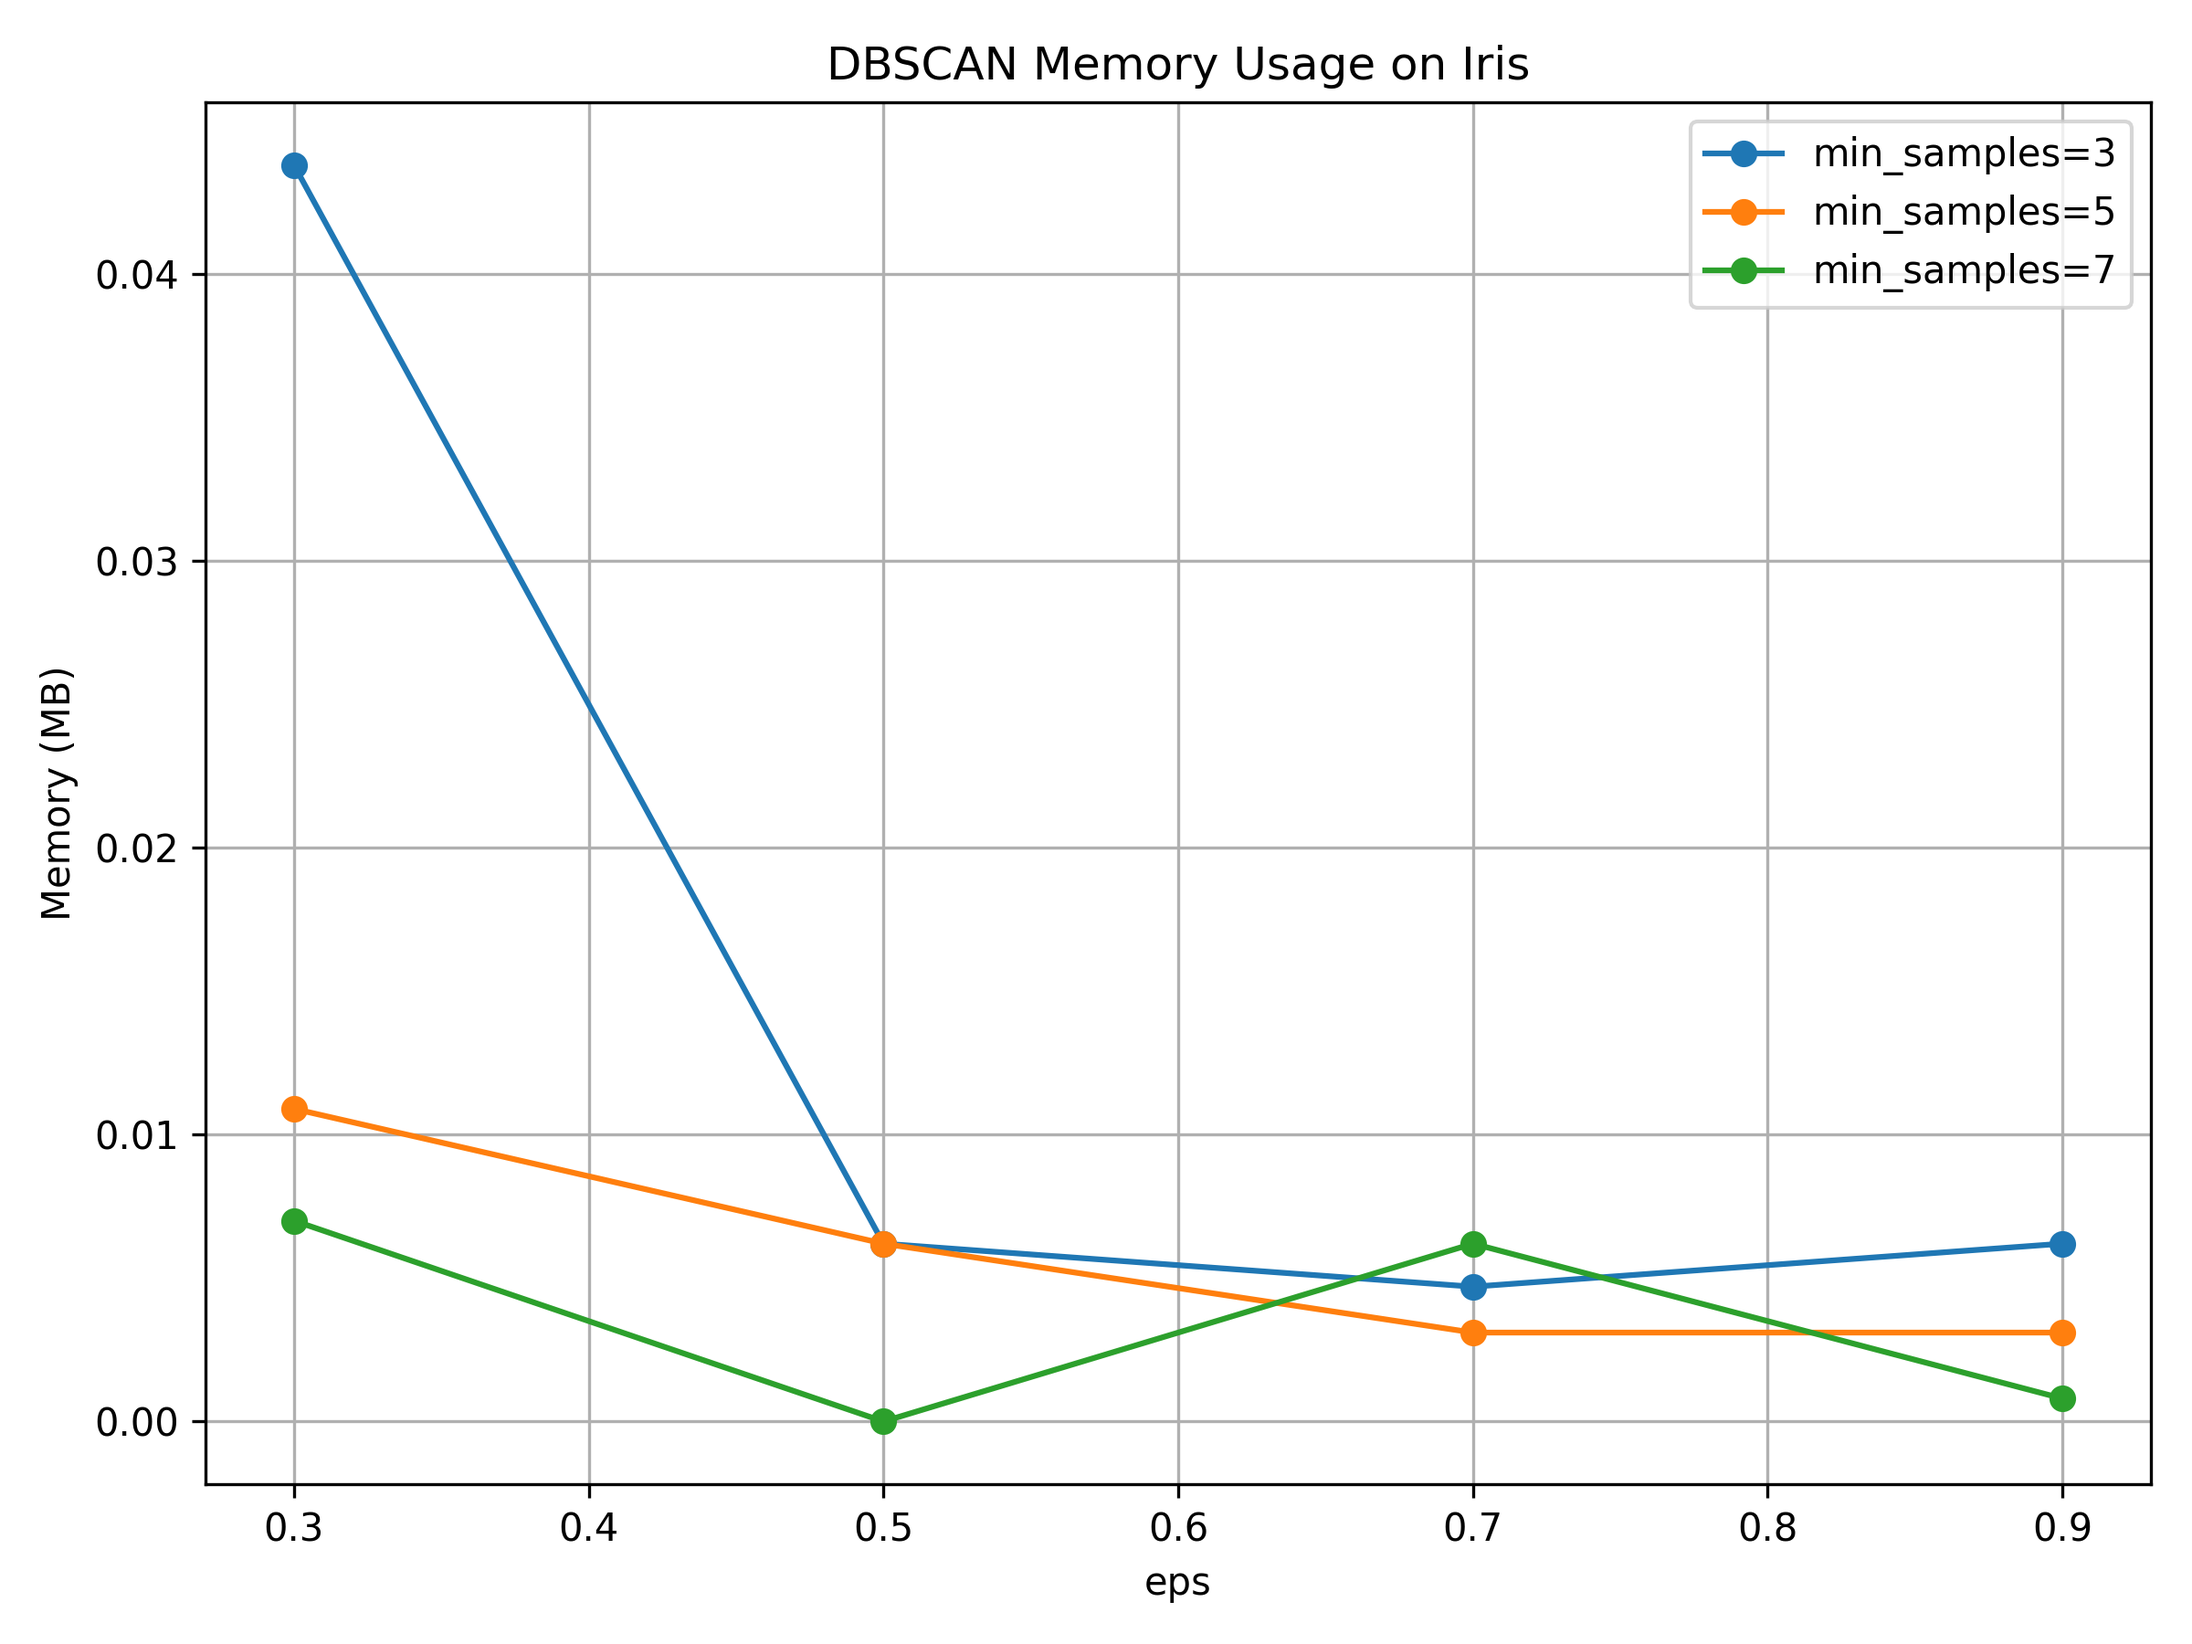
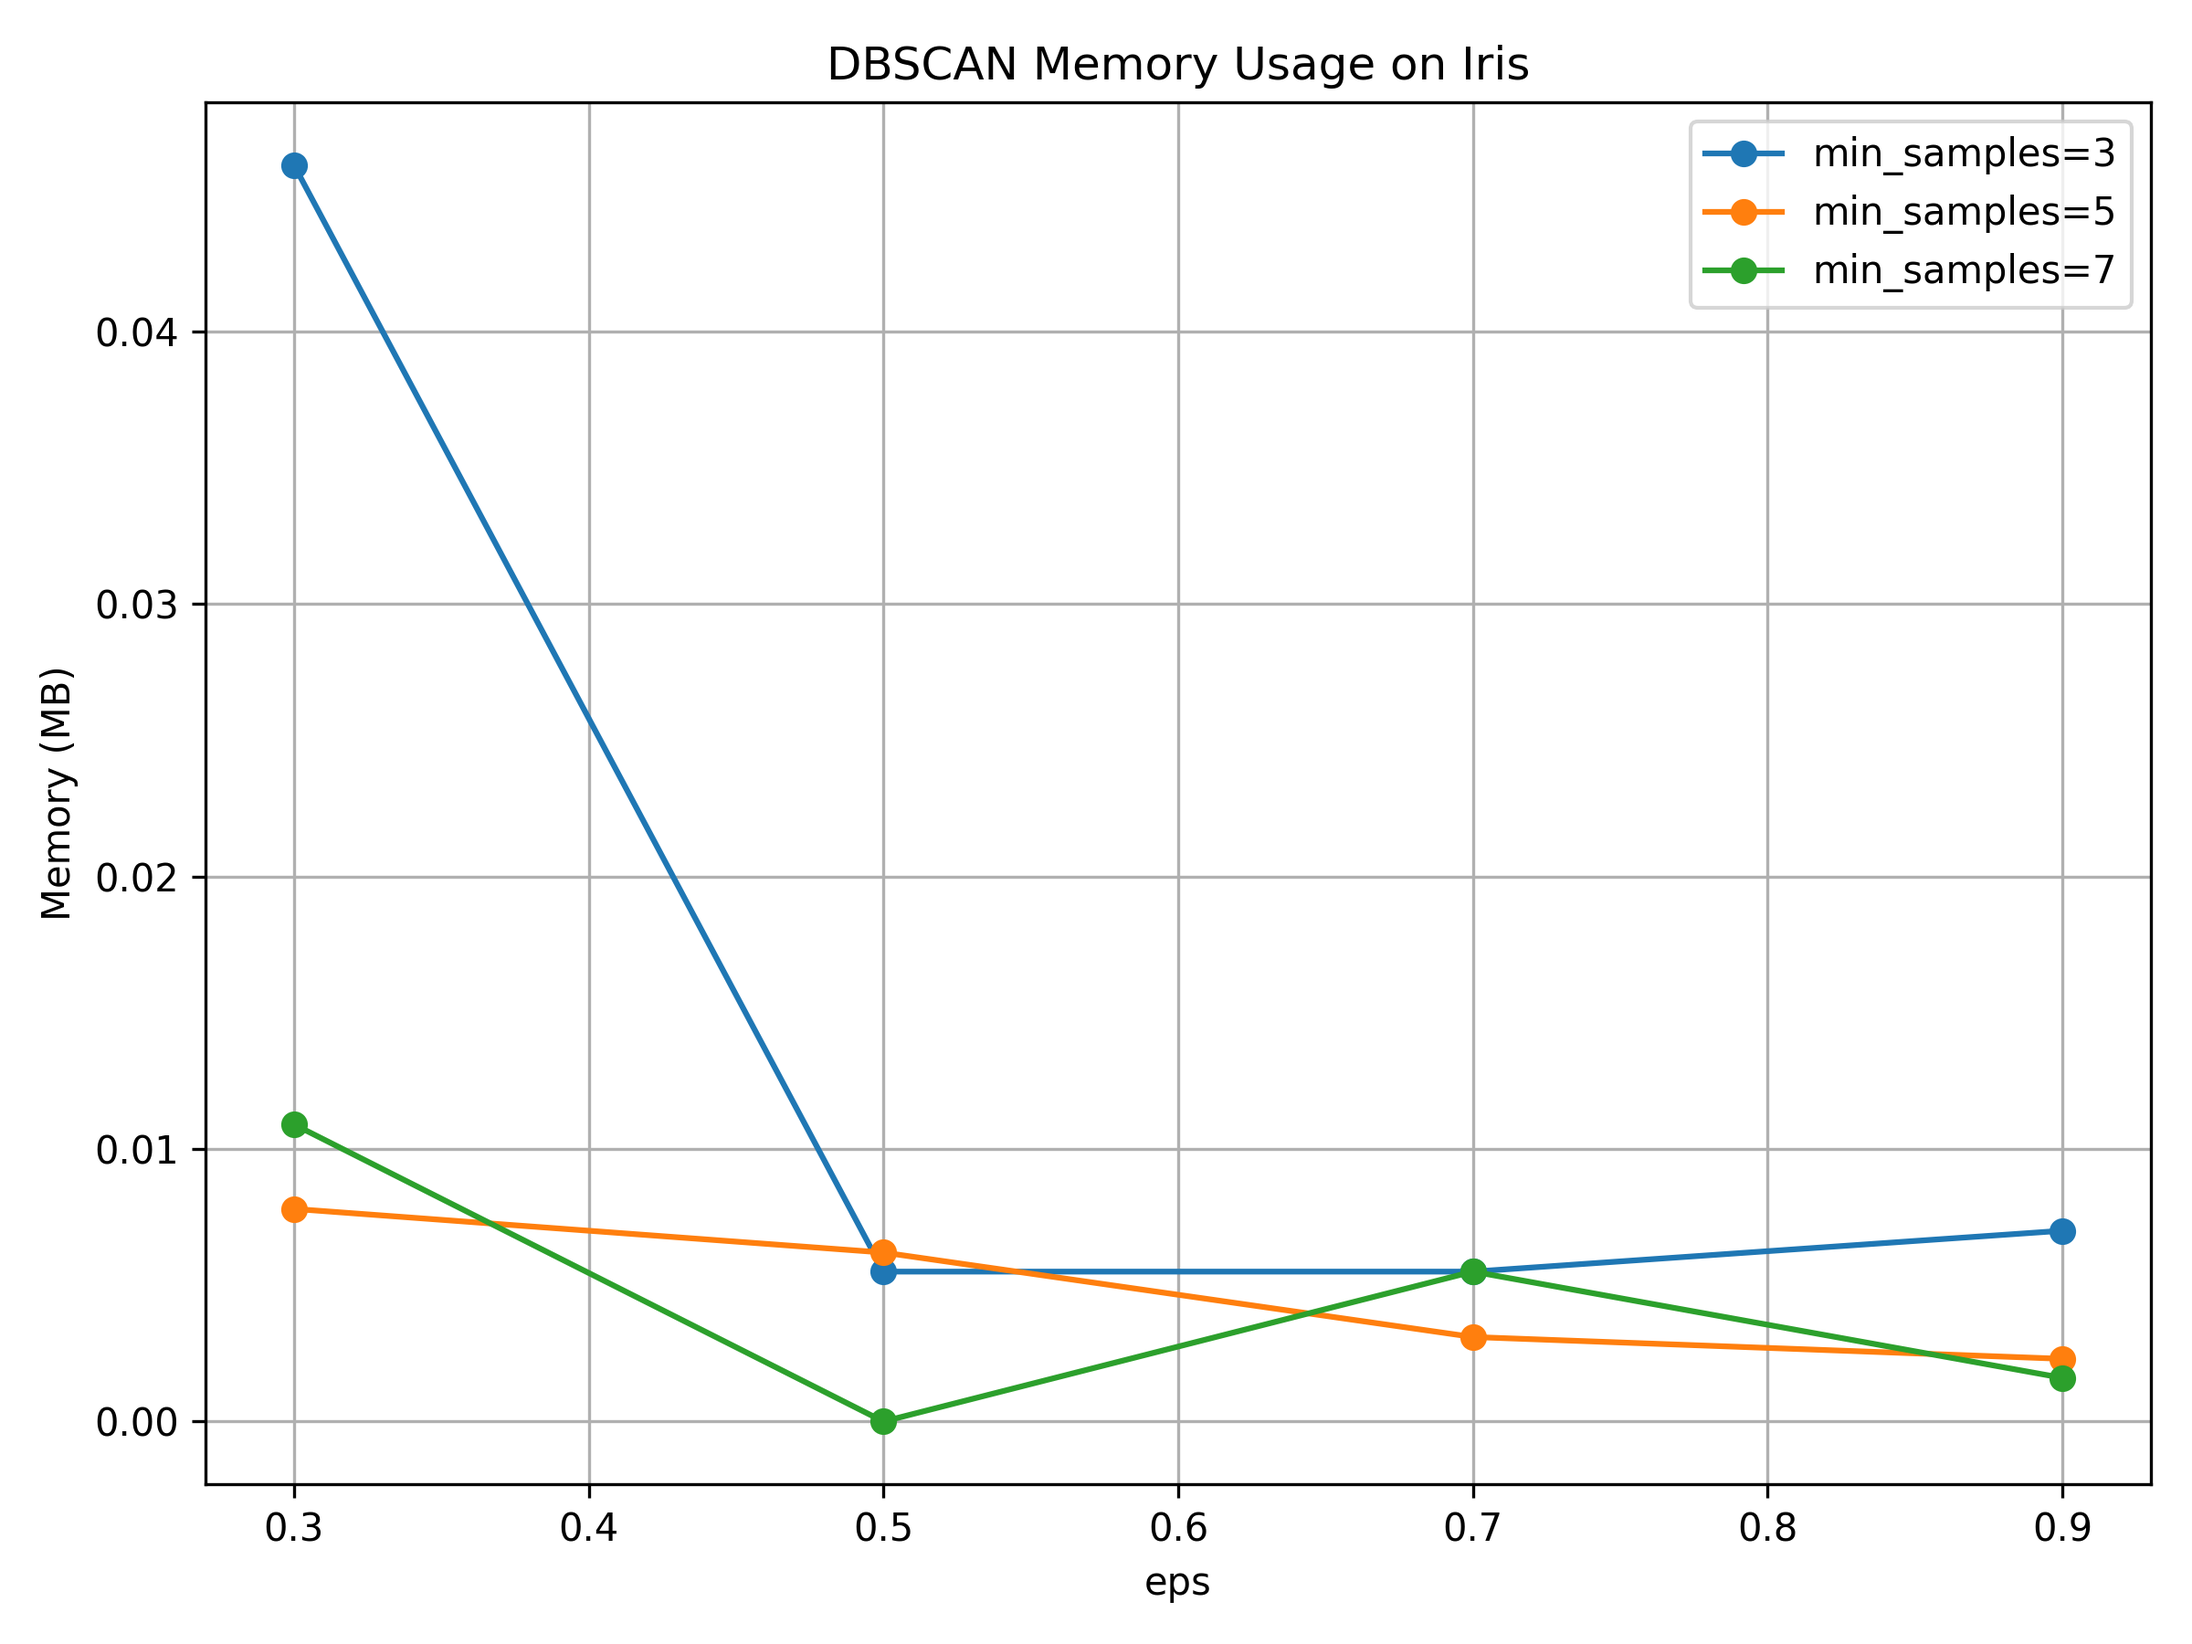
New tables

diff --git a/code/dbscan_synthetic_cluster_plot.py b/code/dbscan_synthetic_cluster_plot.py
@@ -1,0 +1,47 @@
+# -----------------------------------
+# Make DBSCAN cluster plot for synthetic data
+# -----------------------------------
+from sklearn.datasets import make_blobs
+from sklearn.cluster import DBSCAN
+import matplotlib.pyplot as plt
+import os
+
+# choose dataset size
+n = 5000
+
+# same settings from your scaling experiment
+eps = 0.5
+min_samples = 5
+
+# generate synthetic data
+X, y = make_blobs(
+    n_samples=n,
+    centers=3,
+    n_features=2,
+    cluster_std=1.0,
+    random_state=42
+)
+
+# run DBSCAN
+model = DBSCAN(eps=eps, min_samples=min_samples)
+labels = model.fit_predict(X)
+
+# build graph path
+script_dir = os.path.dirname(os.path.abspath(__file__))
+project_root = os.path.dirname(script_dir)
+graphs_dir = os.path.join(project_root, "graphs", "dbscan_scaling_graphs")
+os.makedirs(graphs_dir, exist_ok=True)
+
+# plot clusters
+plt.figure(figsize=(8, 6))
+plt.scatter(X[:, 0], X[:, 1], c=labels)
+plt.title(f"DBSCAN Clusters on Synthetic Data\nn={n}, eps={eps}, min_samples={min_samples}")
+plt.xlabel("Feature 1")
+plt.ylabel("Feature 2")
+plt.tight_layout()
+
+output_path = os.path.join(graphs_dir, f"dbscan_synthetic_clusters_n{n}.png")
+plt.savefig(output_path, dpi=300)
+plt.close()
+
+print(f"Saved: {output_path}")

diff --git a/code/dbscan_scaling.py b/code/dbscan_scaling.py
@@ -40,7 +40,7 @@ def main():
     # Keep DBSCAN parameters fixed (important!)
     eps = 0.5
     min_samples = 5
-    num_trials = 3
+    num_trials = 10
 
     # -----------------------------------
     # STEP 2: setup paths
